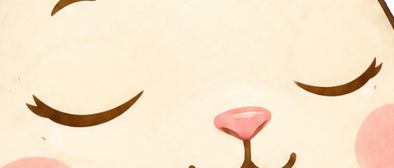
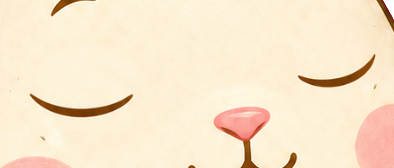
Flocon de cristal : corps peint d'un grand panorama des canaux d'Amsterdam (choix du propriétaire « Grand panorama »)
Nouveau dessin peint, paupières et truffe refaites, versions WebP, description mise à jour.

diff --git a/src/config/species.ts b/src/config/species.ts
@@ -93,7 +93,7 @@ const REGISTRY = [
   // Christmas update, second wave: Lapin de Sulli (concept B), and the Christmas epics Pain d'épice and Flocon de cristal (born only during the event).
   {id: 'lapin-de-sulli', name: 'Lapin de Sulli', description: 'Un lapin boudeur en doudoune rouge, avec des moufles jaunes et un bonnet turquoise à pompon jaune.', types: ['feu', 'neige'], rarity: 'epic', acquisition: [{kind: 'recipe', knowledgePrice: 450, requiredTypes: ['feu', 'neige'], minAffection: 6, probability: 10}], art: {kind: 'static-sprite', file: 'assets/rabbits/lapin-de-sulli/lapin-de-sulli-v1.png', texture: 'rabbit-lapin-de-sulli-original-v1', width: 339, height: 465, worldWidth: 46, groundY: 12, preloadOrder: 47}, progression: {unlockLevel: 11}},
   {id: 'pain-epice', name: 'Pain d’épice', event: 'christmas', description: 'Un lapin biscuit de pain d’épice, aux glaçages blancs, aux boutons en bonbons et au petit nœud rouge.', types: ['feu', 'paille'], rarity: 'epic', acquisition: [{kind: 'recipe', knowledgePrice: 450, requiredTypes: ['feu', 'paille'], minAffection: 6, probability: 10}], art: {kind: 'static-sprite', file: 'assets/rabbits/pain-epice/pain-epice-v1.png', texture: 'rabbit-pain-epice-original-v1', width: 386, height: 428, worldWidth: 49.6, groundY: 12, preloadOrder: 48}, progression: {unlockLevel: 11}},
-  {id: 'flocon-cristal', name: 'Flocon de cristal', event: 'christmas', description: 'Un lapin en porcelaine blanche, peint de flocons, de brins de sapin et de vent d’hiver bleu cobalt, au bout des oreilles doré.', types: ['neige', 'vol'], rarity: 'epic', acquisition: [{kind: 'recipe', knowledgePrice: 450, requiredTypes: ['neige', 'vol'], minAffection: 6, probability: 10}], art: {kind: 'static-sprite', file: 'assets/rabbits/flocon-cristal/flocon-cristal-v1.png', texture: 'rabbit-flocon-cristal-original-v1', width: 286, height: 503, worldWidth: 38.7, groundY: 12, preloadOrder: 49}, progression: {unlockLevel: 11}},
+  {id: 'flocon-cristal', name: 'Flocon de cristal', event: 'christmas', description: 'Un lapin en porcelaine blanche, peint en bleu cobalt d’un panorama des canaux d’Amsterdam, au bout des oreilles doré.', types: ['neige', 'vol'], rarity: 'epic', acquisition: [{kind: 'recipe', knowledgePrice: 450, requiredTypes: ['neige', 'vol'], minAffection: 6, probability: 10}], art: {kind: 'static-sprite', file: 'assets/rabbits/flocon-cristal/flocon-cristal-v1.png', texture: 'rabbit-flocon-cristal-original-v1', width: 286, height: 502, worldWidth: 38.7, groundY: 12, preloadOrder: 49}, progression: {unlockLevel: 11}},
   {id: 'requin', name: 'Lapin Requin', description: 'Un lapin bélier gris aux rayures de requin, avec un aileron bleu et un sourire pointu.', types: ['neige', 'metal'], rarity: 'legendary', acquisition: [{kind: 'recipe', knowledgePrice: 900, minAffection: 10, parents: ['maxou', 'wat-wat'], probability: 10}], art: {kind: 'static-sprite', file: 'assets/rabbits/requin/requin-v1.png', texture: 'rabbit-requin-original-v1', width: 430, height: 428, worldWidth: 56, groundY: 12, preloadOrder: 30}, progression: {unlockLevel: 14}},
   {id: 'ankylosaure', name: 'Anky', description: 'Le fils de Dinono et Dinenette : un lapin bélier brun chocolat aux yeux vert noisette, dans un déguisement d’ankylosaure vert mousse, avec une carapace brune et une queue en massue.', types: ['paille', 'metal'], rarity: 'legendary', acquisition: [{kind: 'recipe', knowledgePrice: 900, minAffection: 10, parents: ['dinono', 'dinenette'], probability: 10}], art: {kind: 'static-sprite', file: 'assets/rabbits/ankylosaure/ankylosaure-v1.png', texture: 'rabbit-ankylosaure-original-v1', width: 461, height: 382, worldWidth: 58, groundY: 12, preloadOrder: 35}, progression: {unlockLevel: 14}},
   // Christmas update (owner, 5 November 2026): the owner's own drawing; born of Câlinou géant and Orange.

diff --git a/tests/rabbit-art-fixtures.ts b/tests/rabbit-art-fixtures.ts
@@ -81,7 +81,7 @@ export const NEW_SPECIALS: readonly SpecialSheet[] = [
   // Christmas update (6 November 2026): Lapin de Sulli (concept B), and two more Christmas Epics born only during the event.
[2 lines of base64/hex data omitted]
-  {id: 'flocon-cristal', name: 'Flocon de cristal', event: 'christmas', types: ['neige', 'vol'], rarity: 'epic', recipe: {requiredTypes: ['neige', 'vol'], minAffection: 6, probability: 10, knowledgePrice: 450}, unlockLevel: 11, art: sprite('flocon-cristal', 286, 503, 38.7, 12, 49)}, // 24 Nov. 2026: redone as « Porcelaine bleue ».
+  {id: 'flocon-cristal', name: 'Flocon de cristal', event: 'christmas', types: ['neige', 'vol'], rarity: 'epic', recipe: {requiredTypes: ['neige', 'vol'], minAffection: 6, probability: 10, knowledgePrice: 450}, unlockLevel: 11, art: sprite('flocon-cristal', 286, 502, 38.7, 12, 49)}, // 24 Nov. 2026: redone as « Porcelaine bleue ».
[1 lines of base64/hex data omitted]
   // Legendary son of Dinono and Dinenette (1 November 2026): concept B « Mousse », its rabbit redone at the owner's request (B3).
[1 lines of base64/hex data omitted]

diff --git a/tests/species-registry.test.ts b/tests/species-registry.test.ts
@@ -41,7 +41,7 @@ const SPECIAL_DESCRIPTIONS: Record<string, string> = {
   'fusion-nucleaire': 'Un lapin de verre nacré rose et blanc, parcouru de petites lumières qui s’allument à la nuit tombée.',
   'lapin-de-sulli': 'Un lapin boudeur en doudoune rouge, avec des moufles jaunes et un bonnet turquoise à pompon jaune.',
   'pain-epice': 'Un lapin biscuit de pain d’épice, aux glaçages blancs, aux boutons en bonbons et au petit nœud rouge.',
-  'flocon-cristal': 'Un lapin en porcelaine blanche, peint de flocons, de brins de sapin et de vent d’hiver bleu cobalt, au bout des oreilles doré.', // 24 Nov. 2026: redone as « Porcelaine bleue ».
+  'flocon-cristal': 'Un lapin en porcelaine blanche, peint en bleu cobalt d’un panorama des canaux d’Amsterdam, au bout des oreilles doré.', // 24 Nov. 2026: redone as « Porcelaine bleue ».
   orange: 'Une petite lapine blanche à la robe orange.', requin: 'Un lapin bélier gris aux rayures de requin, avec un aileron bleu et un sourire pointu.',
 };
 
